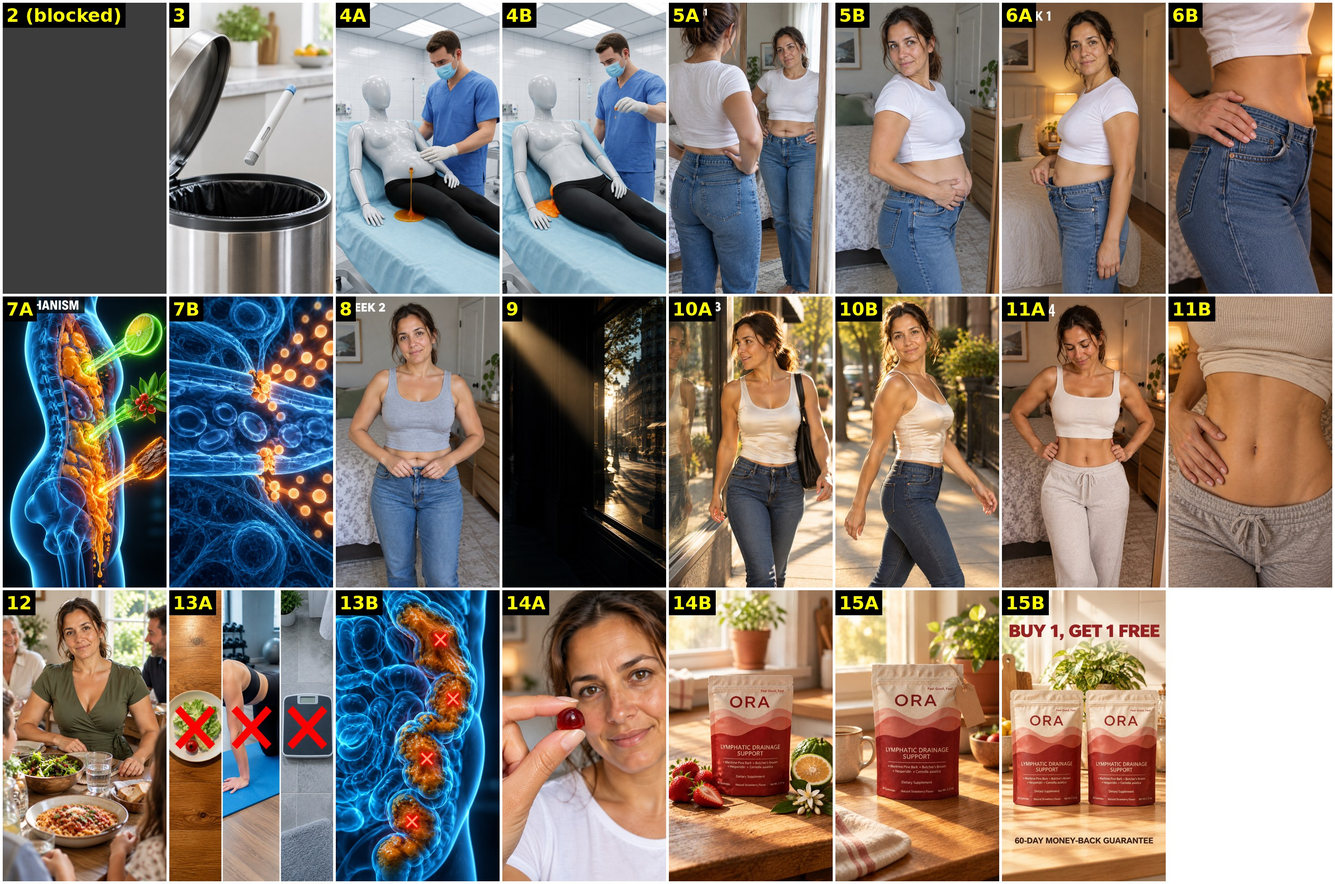
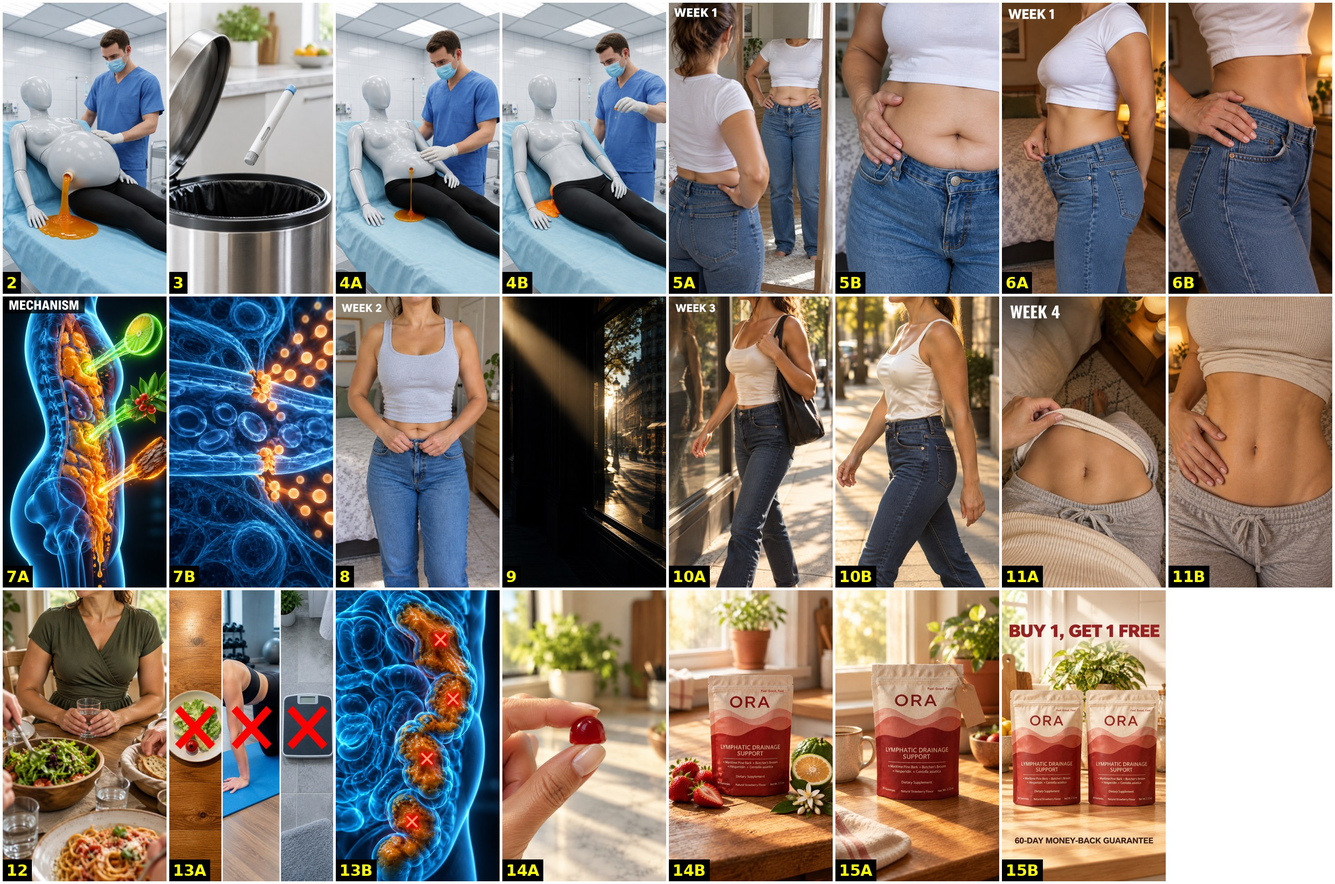
Belly POV ad: body-only woman frames + clip 2
Claude-Session: https://claude.ai/code/session_01B91YnQnevLKqPhwBUBVUWL

diff --git a/projects/ora-belly-pov/shots.md b/projects/ora-belly-pov/shots.md
@@ -1,29 +1,30 @@
-# POV belly ad - first frames (clips 2-15B; clip 1 = existing hook)
+# POV belly ad - first frames (overlay build, clips 2-15B; clip 1 = existing hook)
 
+WOMAN clips are body-only (face never in frame). Redone at Low/1K: 2, 5A, 5B, 6A, 8, 10A, 10B, 11A, 12, 14A.
 Inspo uploads: xray 42caf5c0, leggings split 8f325f14, walking door 13a10c2d, family lunch ab4c6e42, gummy fingers 4c6d9eb4, pouch mugs c5af4db4, BOGO b4fc15a1, mirror b40b32f0
 
 | Shot | Frame job |
 |---|---|
-| 2 | BLOCKED twice by safety filter (4684ed10, 608d0199) |
+| 2 | fb0de656-cbc9-4990-904c-64ae3f56e52a |
 | 3 | 90dc81b2-e9b7-41e7-aef1-afba49c04418 |
 | 4A | 857f48c5-321b-4bc1-807a-53fef4bb9614 |
 | 4B | 4af59843-d1f5-4e4f-b754-ea58f327f8bf |
-| 5A | 4fbc9c90-1cbc-4b64-a71b-ff30477241e0 |
-| 5B | 48902da1-1137-4585-a5bc-0a0f8fba975f |
-| 6A | b4231063-6840-4154-8aee-f8bf3632a248 |
+| 5A | ca4a9aac-e69b-4b8a-a52f-955e463b4a65 |
+| 5B | 2a93fcb9-6e1e-4f61-920b-10c78aaf60ac |
+| 6A | 3dd0d806-59cf-447f-a0f4-74ce3fd681c9 |
 | 6B | 4dacd0e6-d732-4ee8-9f23-c36d3152ff11 |
 | 7A | 48fa6b34-20a4-4c95-a72c-54330b2b638b |
 | 7B | 371faa48-24bb-41a3-88bf-c7bc97f723f5 |
-| 8 | 7617d6f7-644c-442e-b27f-d51d5ae07b9f |
+| 8 | 6a2063b1-28b7-4643-a25d-9357bc4b60ab |
 | 9 | 15ea23ba-7378-4a5a-8f8a-ae9f49539384 |
-| 10A | 19714a09-618f-406d-acb2-6f22708d5a43 |
-| 10B | 2a6542cb-a72b-4d76-bfbb-a6318f184b97 |
-| 11A | 85cb5561-e28b-4599-b33d-bfe6edddeeb2 |
+| 10A | 8223f147-dfbe-4ba9-99ad-f645a50434f1 |
+| 10B | 069bd217-a41d-4e2a-93f1-e4fbc5e5ca65 |
+| 11A | 102a3828-82d2-40b8-8582-a1a0d55ceff4 |
 | 11B | 8574a280-558e-46d9-b846-0bb81c984986 |
-| 12 | 207a54cc-1284-490c-ac0a-eda4787b2aca |
+| 12 | 60ce4c11-0d6e-479d-8512-68dbe2766d60 |
 | 13A | 679eb6c2-a48f-4b60-bf69-3629435bed47 |
 | 13B | 95a6dba6-cfd9-4d0f-8b08-1c65c87416cd |
-| 14A | fc192573-b591-4abb-966c-a2612ee7f559 |
+| 14A | 339e6fb3-191a-433e-bac0-a28a591ce238 |
 | 14B | b4094f00-2bae-4410-baa6-888fd3f5d2c8 |
 | 15A | 232ac0e3-ba4d-49cc-a765-9ae0c05bd7c1 |
 | 15B | 99c5c979-e003-41dd-9d98-b19c1ea58628 |
